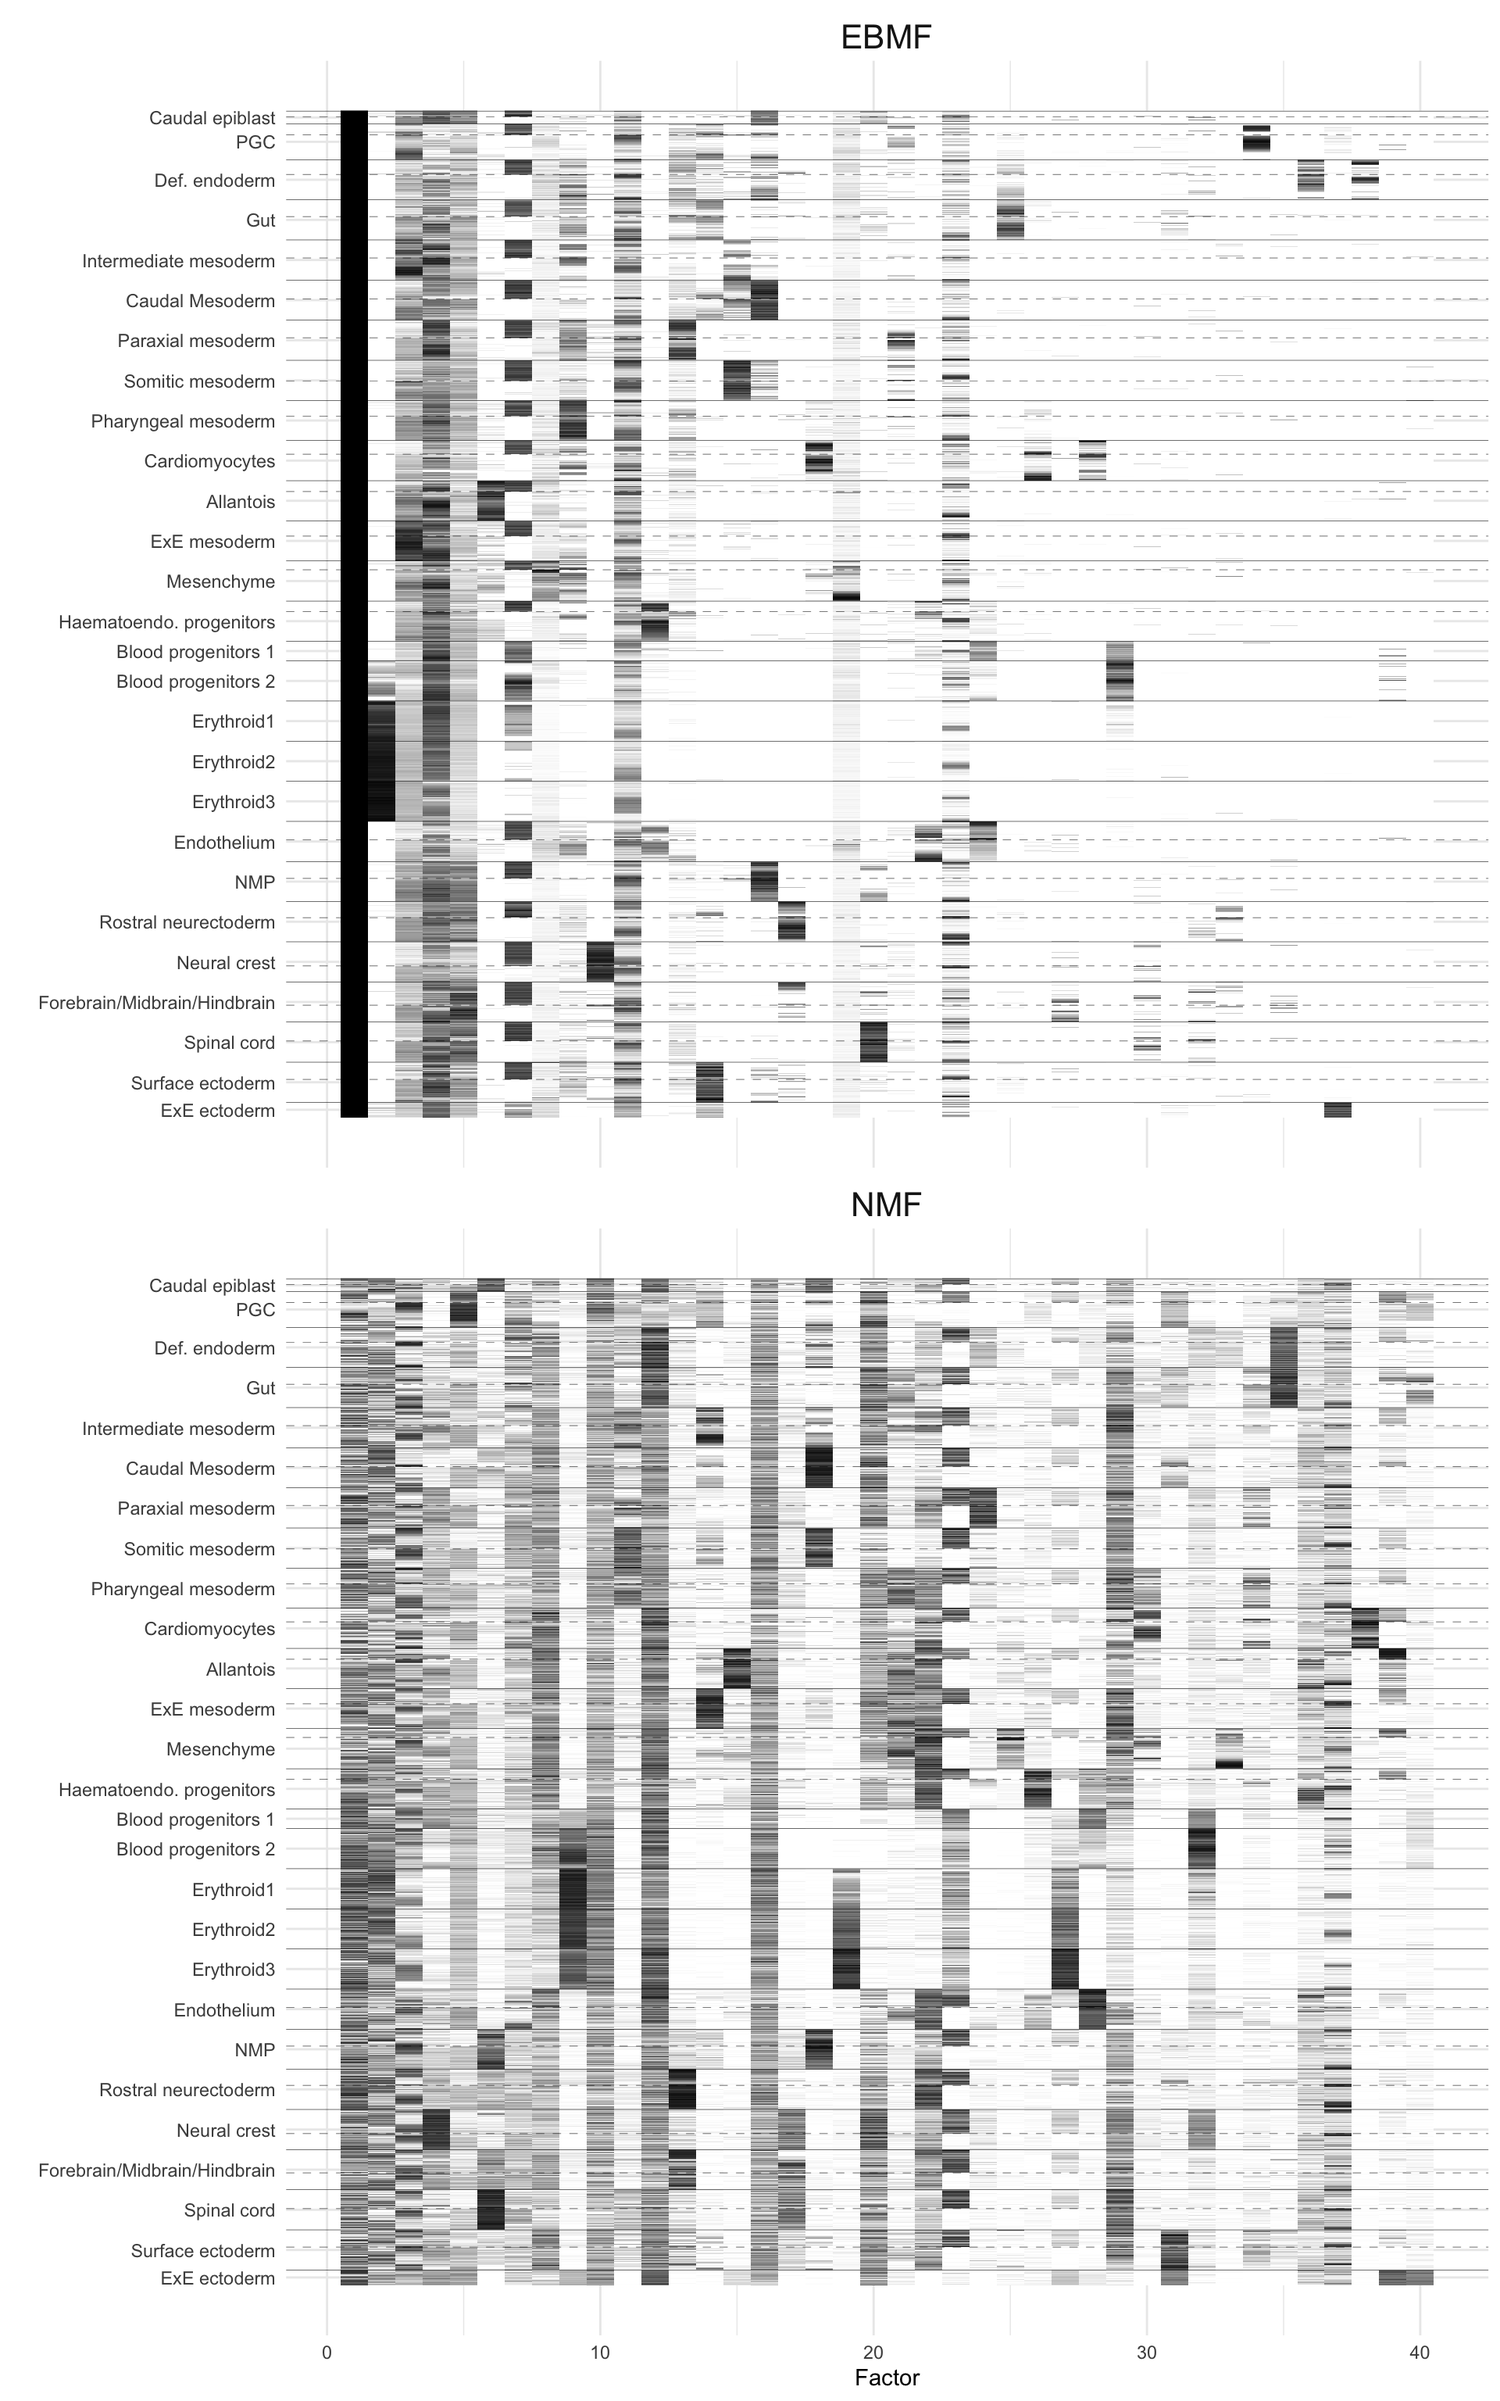
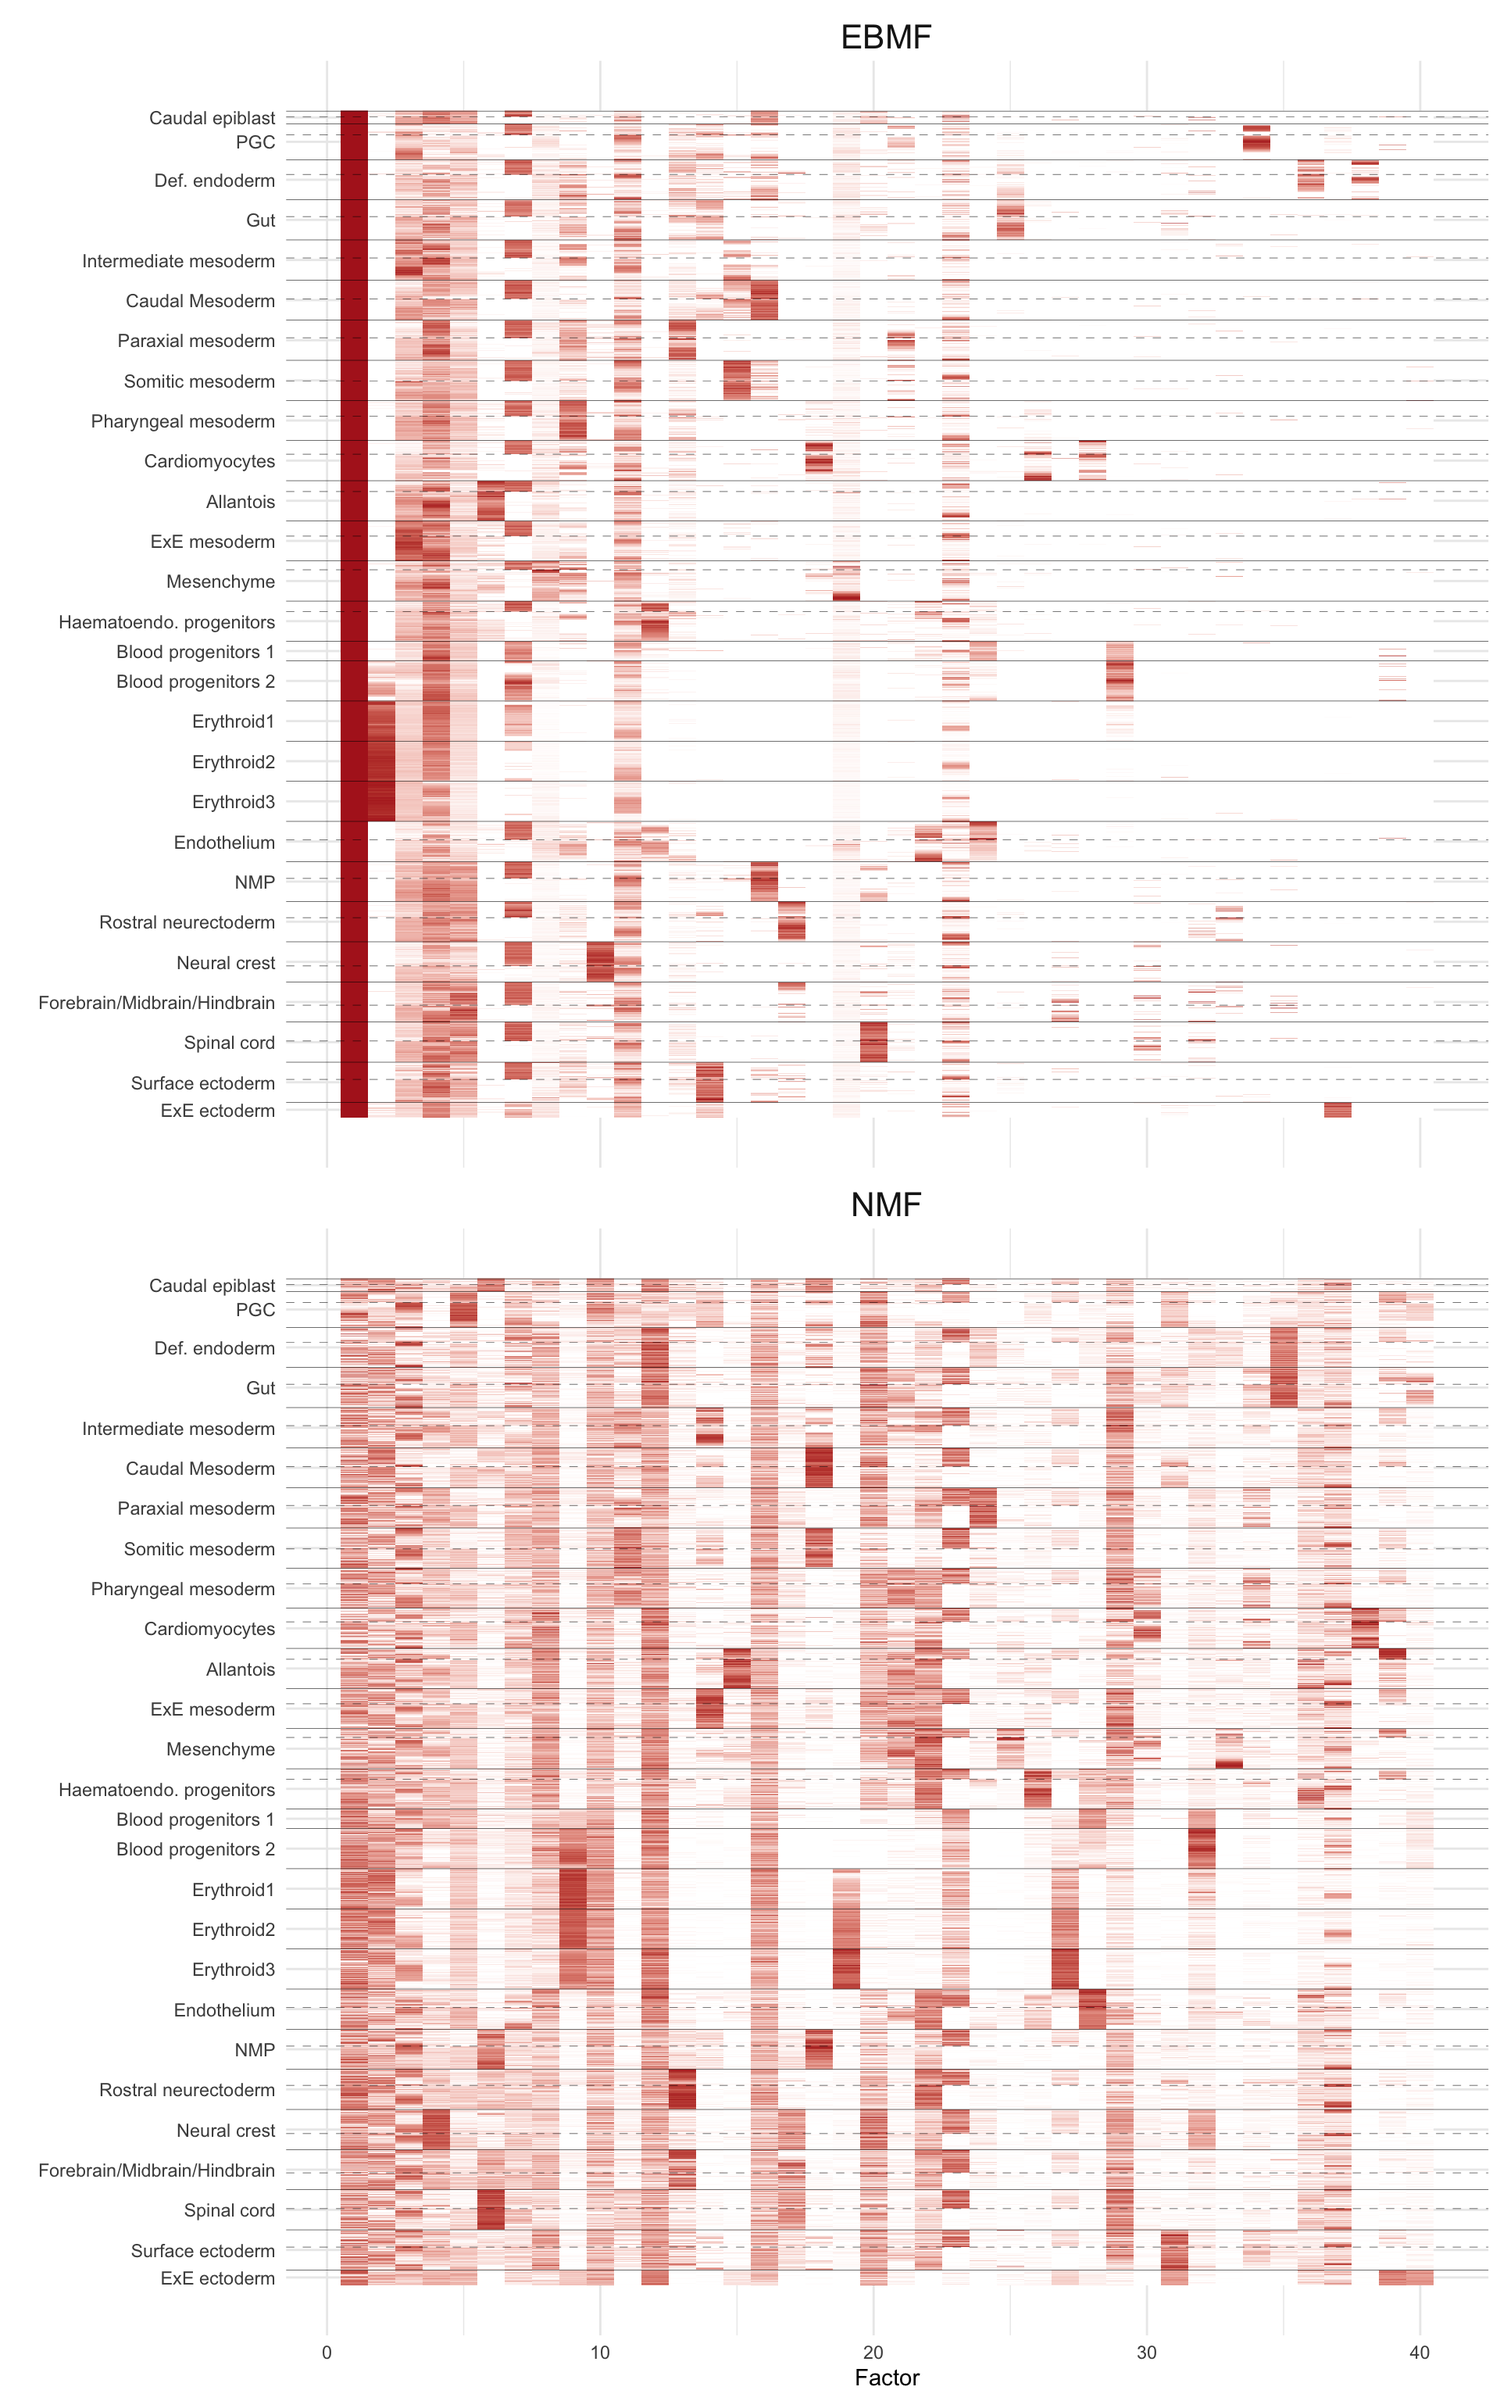
Build site.

diff --git a/docs/viz.html b/docs/viz.html
@@ -309,7 +309,7 @@ $(document).ready(function () {
 <div class="tab-content">
 <div id="summary" class="tab-pane fade in active">
 <p>
-<strong>Last updated:</strong> 2022-04-27
+<strong>Last updated:</strong> 2022-04-28
 </p>
 <p>
 <strong>Checks:</strong> <span class="glyphicon glyphicon-ok text-success" aria-hidden="true"></span> 7 <span class="glyphicon glyphicon-exclamation-sign text-danger" aria-hidden="true"></span> 0
@@ -400,16 +400,16 @@ This reproducible <a href="http://rmarkdown.rstudio.com">R Markdown</a> analysis
 <div class="panel panel-default">
 <div class="panel-heading">
 <p class="panel-title">
-<a data-toggle="collapse" data-parent="#workflowr-checks" href="#strongRepositoryversionstrongahrefhttpsgithubcomwillwerscheidebmfforscrnaseqpapertree78ce9403b5767f2837fc92b243a7e73734e185c7targetblank78ce940a"> <span class="glyphicon glyphicon-ok text-success" aria-hidden="true"></span> <strong>Repository version:</strong> <a href="https://github.com/willwerscheid/ebmf-for-scrnaseq-paper/tree/78ce9403b5767f2837fc92b243a7e73734e185c7" target="_blank">78ce940</a> </a>
+<a data-toggle="collapse" data-parent="#workflowr-checks" href="#strongRepositoryversionstrongahrefhttpsgithubcomwillwerscheidebmfforscrnaseqpapertree470bf8a2f7d9e431bc7e95e053f41a9ace8a208btargetblank470bf8aa"> <span class="glyphicon glyphicon-ok text-success" aria-hidden="true"></span> <strong>Repository version:</strong> <a href="https://github.com/willwerscheid/ebmf-for-scrnaseq-paper/tree/470bf8a2f7d9e431bc7e95e053f41a9ace8a208b" target="_blank">470bf8a</a> </a>
 </p>
 </div>
[2 lines of base64/hex data omitted]
 <div class="panel-body">
 <p>
 Great! You are using Git for version control. Tracking code development and connecting the code version to the results is critical for reproducibility.
 </p>
 <p>
-The results in this page were generated with repository version <a href="https://github.com/willwerscheid/ebmf-for-scrnaseq-paper/tree/78ce9403b5767f2837fc92b243a7e73734e185c7" target="_blank">78ce940</a>. See the <em>Past versions</em> tab to see a history of the changes made to the R Markdown and HTML files.
+The results in this page were generated with repository version <a href="https://github.com/willwerscheid/ebmf-for-scrnaseq-paper/tree/470bf8a2f7d9e431bc7e95e053f41a9ace8a208b" target="_blank">470bf8a</a>. See the <em>Past versions</em> tab to see a history of the changes made to the R Markdown and HTML files.
 </p>
 <p>
 Note that you need to be careful to ensure that all relevant files for the analysis have been committed to Git prior to generating the results (you can use <code>wflow_publish</code> or <code>wflow_git_commit</code>). workflowr only checks the R Markdown file, but you know if there are other scripts or data files that it depends on. Below is the status of the Git repository when the results were generated:
@@ -489,6 +489,40 @@ Message
 </tr>
 </thead>
 <tbody>
+<tr>
+<td>
+Rmd
+</td>
+<td>
+<a href="https://github.com/willwerscheid/ebmf-for-scrnaseq-paper/blob/470bf8a2f7d9e431bc7e95e053f41a9ace8a208b/analysis/viz.Rmd" target="_blank">470bf8a</a>
+</td>
+<td>
+Jason Willwerscheid
+</td>
+<td>
+2022-04-28
+</td>
+<td>
+wflow_publish(“analysis/viz.Rmd”)
+</td>
+</tr>
+<tr>
+<td>
+html
+</td>
+<td>
+<a href="https://rawcdn.githack.com/willwerscheid/ebmf-for-scrnaseq-paper/d8f1740fc0e7cc0a7872103b7b51dd56d23e0ffe/docs/viz.html" target="_blank">d8f1740</a>
+</td>
+<td>
+Jason Willwerscheid
+</td>
+<td>
+2022-04-27
+</td>
+<td>
+Build site.
+</td>
+</tr>
 <tr>
 <td>
 Rmd
@@ -606,7 +640,7 @@ tomato_breaks &lt;- setdiff(tomato_breaks, cell_type_breaks)
 
 ggplot(heatmap.tib, aes(x = Factor, y = -Cell.idx, fill = Loading)) +
   geom_tile() +
-  scale_fill_gradient(low = &quot;white&quot;, high = &quot;black&quot;) +
+  scale_fill_gradient(low = &quot;white&quot;, high = &quot;firebrick&quot;) +
   labs(y = &quot;&quot;) +
   scale_y_continuous(breaks = -label_pos,
                      minor_breaks = NULL,
@@ -618,6 +652,43 @@ ggplot(heatmap.tib, aes(x = Factor, y = -Cell.idx, fill = Loading)) +
   theme(legend.position = &quot;none&quot;, 
         strip.text = element_text(size = 16))</code></pre>
 <p><img src="figure/viz.Rmd/heatmaps-1.png" width="960" style="display: block; margin: auto;" /></p>
+<p>
+<button type="button" class="btn btn-default btn-xs btn-workflowr btn-workflowr-fig" data-toggle="collapse" data-target="#fig-heatmaps-1">
+Past versions of heatmaps-1.png
+</button>
+</p>
+<div id="fig-heatmaps-1" class="collapse">
+<div class="table-responsive">
+<table class="table table-condensed table-hover">
+<thead>
+<tr>
+<th>
+Version
+</th>
+<th>
+Author
+</th>
+<th>
+Date
+</th>
+</tr>
+</thead>
+<tbody>
+<tr>
+<td>
+<a href="https://github.com/willwerscheid/ebmf-for-scrnaseq-paper/blob/d8f1740fc0e7cc0a7872103b7b51dd56d23e0ffe/docs/figure/viz.Rmd/heatmaps-1.png" target="_blank">d8f1740</a>
+</td>
+<td>
+Jason Willwerscheid
+</td>
+<td>
+2022-04-27
+</td>
+</tr>
+</tbody>
+</table>
+</div>
+</div>
 </div>
 <div id="structure-plots" class="section level2">
 <h2>Structure plots</h2>
@@ -751,6 +822,43 @@ plot_grid(
   rel_heights = c(1.12, 1, 1.65)
 )</code></pre>
 <p><img src="figure/viz.Rmd/structplots-1.png" width="960" style="display: block; margin: auto;" /></p>
+<p>
+<button type="button" class="btn btn-default btn-xs btn-workflowr btn-workflowr-fig" data-toggle="collapse" data-target="#fig-structplots-1">
+Past versions of structplots-1.png
+</button>
+</p>
+<div id="fig-structplots-1" class="collapse">
+<div class="table-responsive">
+<table class="table table-condensed table-hover">
+<thead>
+<tr>
+<th>
+Version
+</th>
+<th>
+Author
+</th>
+<th>
+Date
+</th>
+</tr>
+</thead>
+<tbody>
+<tr>
+<td>
+<a href="https://github.com/willwerscheid/ebmf-for-scrnaseq-paper/blob/d8f1740fc0e7cc0a7872103b7b51dd56d23e0ffe/docs/figure/viz.Rmd/structplots-1.png" target="_blank">d8f1740</a>
+</td>
+<td>
+Jason Willwerscheid
+</td>
+<td>
+2022-04-27
+</td>
+</tr>
+</tbody>
+</table>
+</div>
+</div>
 </div>
 <div id="volcano-plots" class="section level2">
 <h2>Volcano plots</h2>
@@ -827,6 +935,43 @@ kset &lt;- order(-nnebmf$fit$pve)[c(2, 7, 24)]
 k.labels &lt;- c(&quot;Eryth (2)&quot;, &quot;Other WT (7)&quot;, &quot;Epi WT (24)&quot;)
 do.volcano.plot(nnebmf$fit, snnebmf$fit, kset, exprmean, k.labels)</code></pre>
 <p><img src="figure/viz.Rmd/volcano.code-1.png" width="768" style="display: block; margin: auto;" /></p>
+<p>
+<button type="button" class="btn btn-default btn-xs btn-workflowr btn-workflowr-fig" data-toggle="collapse" data-target="#fig-volcano.code-1">
+Past versions of volcano.code-1.png
+</button>
+</p>
+<div id="fig-volcano.code-1" class="collapse">
+<div class="table-responsive">
+<table class="table table-condensed table-hover">
+<thead>
+<tr>
+<th>
+Version
+</th>
+<th>
+Author
+</th>
+<th>
+Date
+</th>
+</tr>
+</thead>
+<tbody>
+<tr>
+<td>
+<a href="https://github.com/willwerscheid/ebmf-for-scrnaseq-paper/blob/d8f1740fc0e7cc0a7872103b7b51dd56d23e0ffe/docs/figure/viz.Rmd/volcano.code-1.png" target="_blank">d8f1740</a>
+</td>
+<td>
+Jason Willwerscheid
+</td>
+<td>
+2022-04-27
+</td>
+</tr>
+</tbody>
+</table>
+</div>
+</div>
 <br>
 <p>
 <button type="button" class="btn btn-default btn-workflowr btn-workflowr-sessioninfo" data-toggle="collapse" data-target="#workflowr-sessioninfo" style="display: block;">
